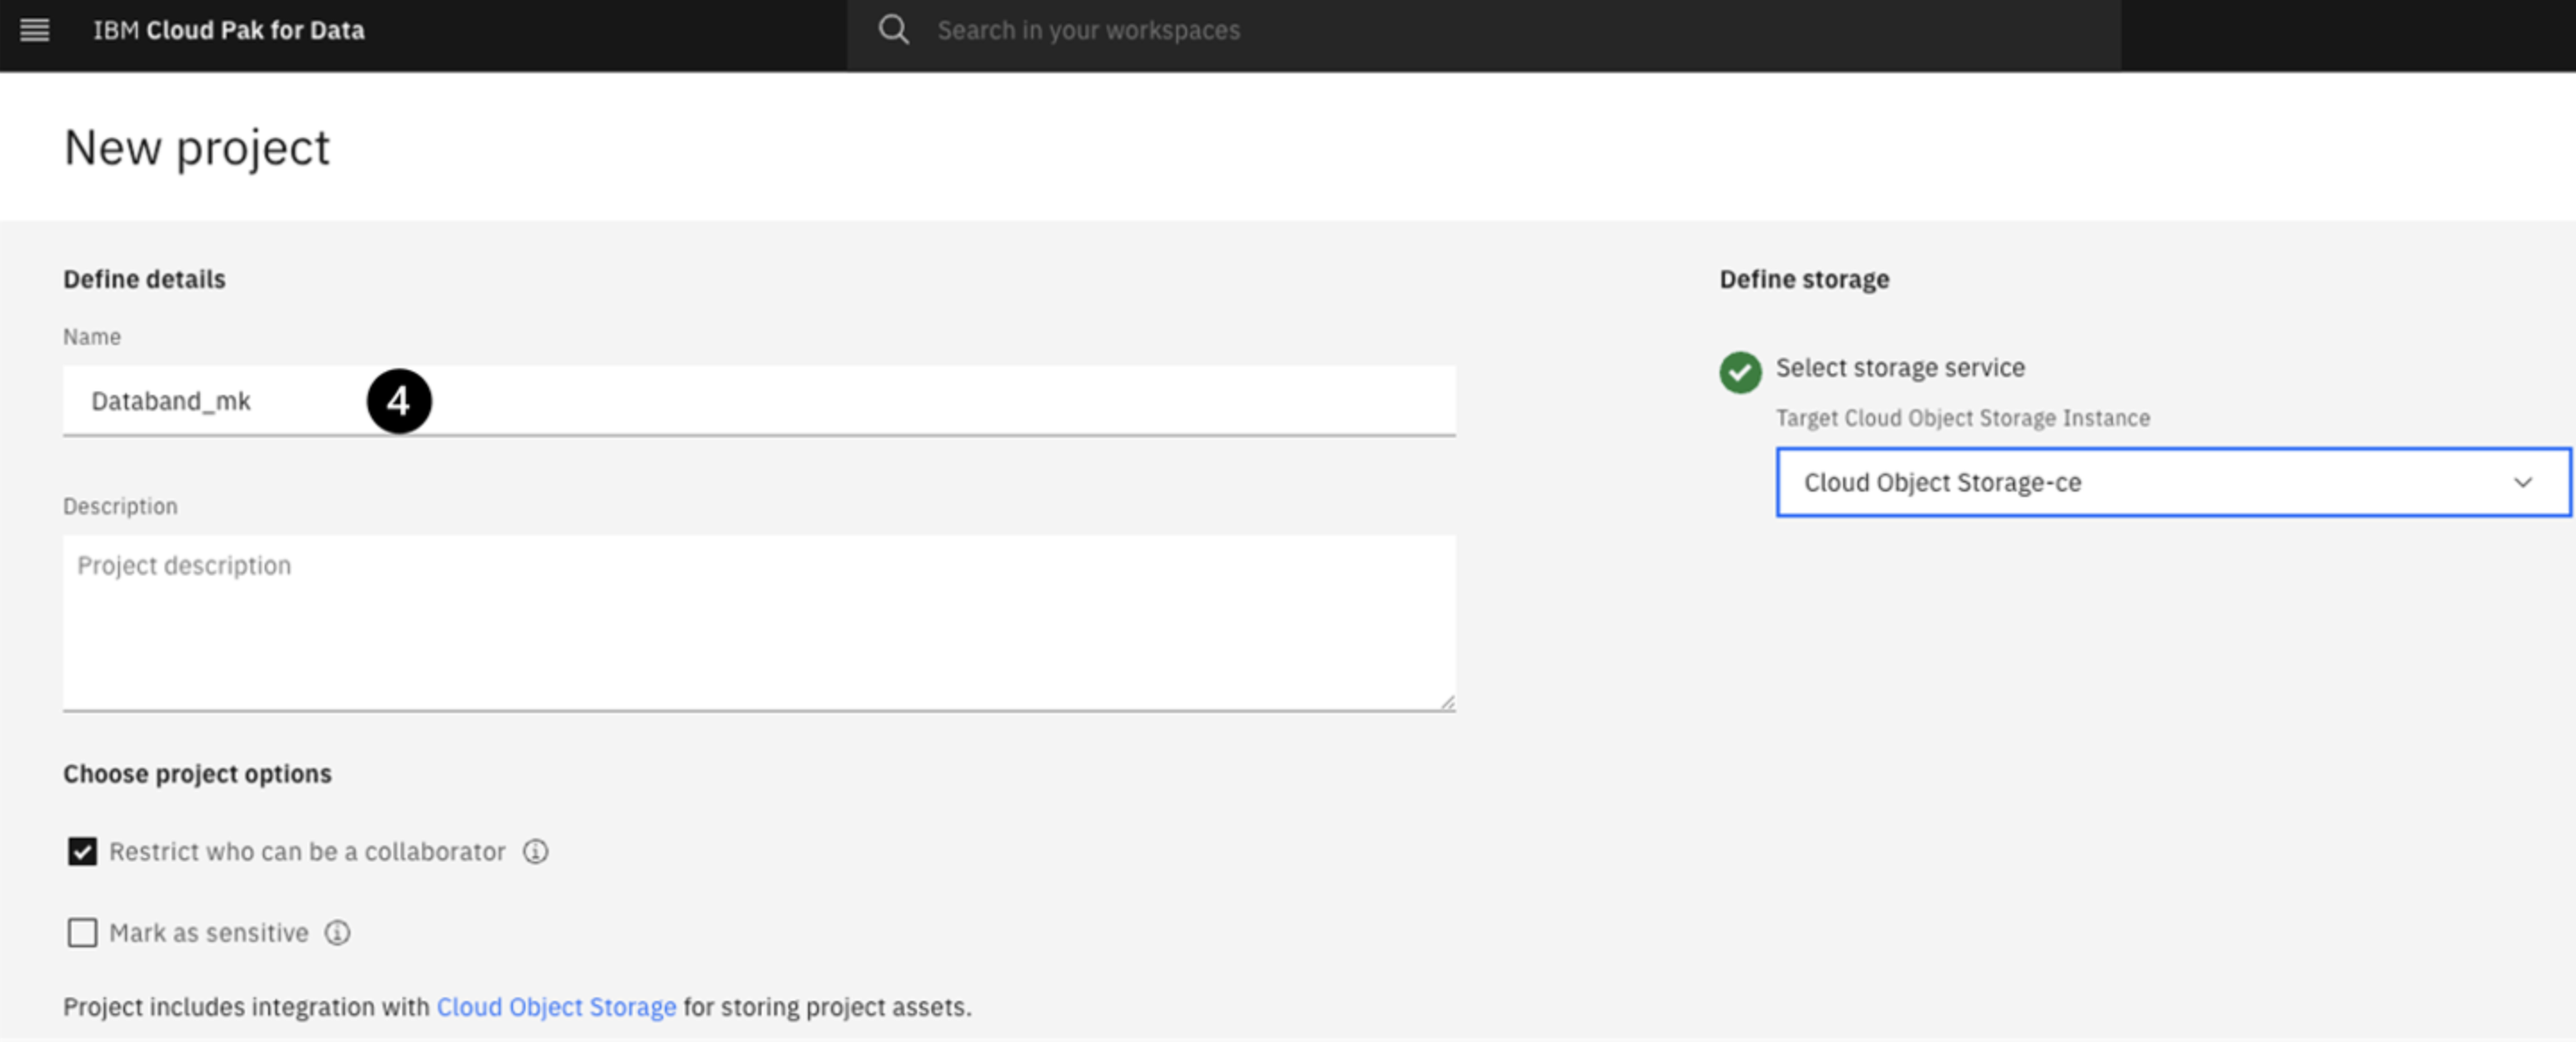
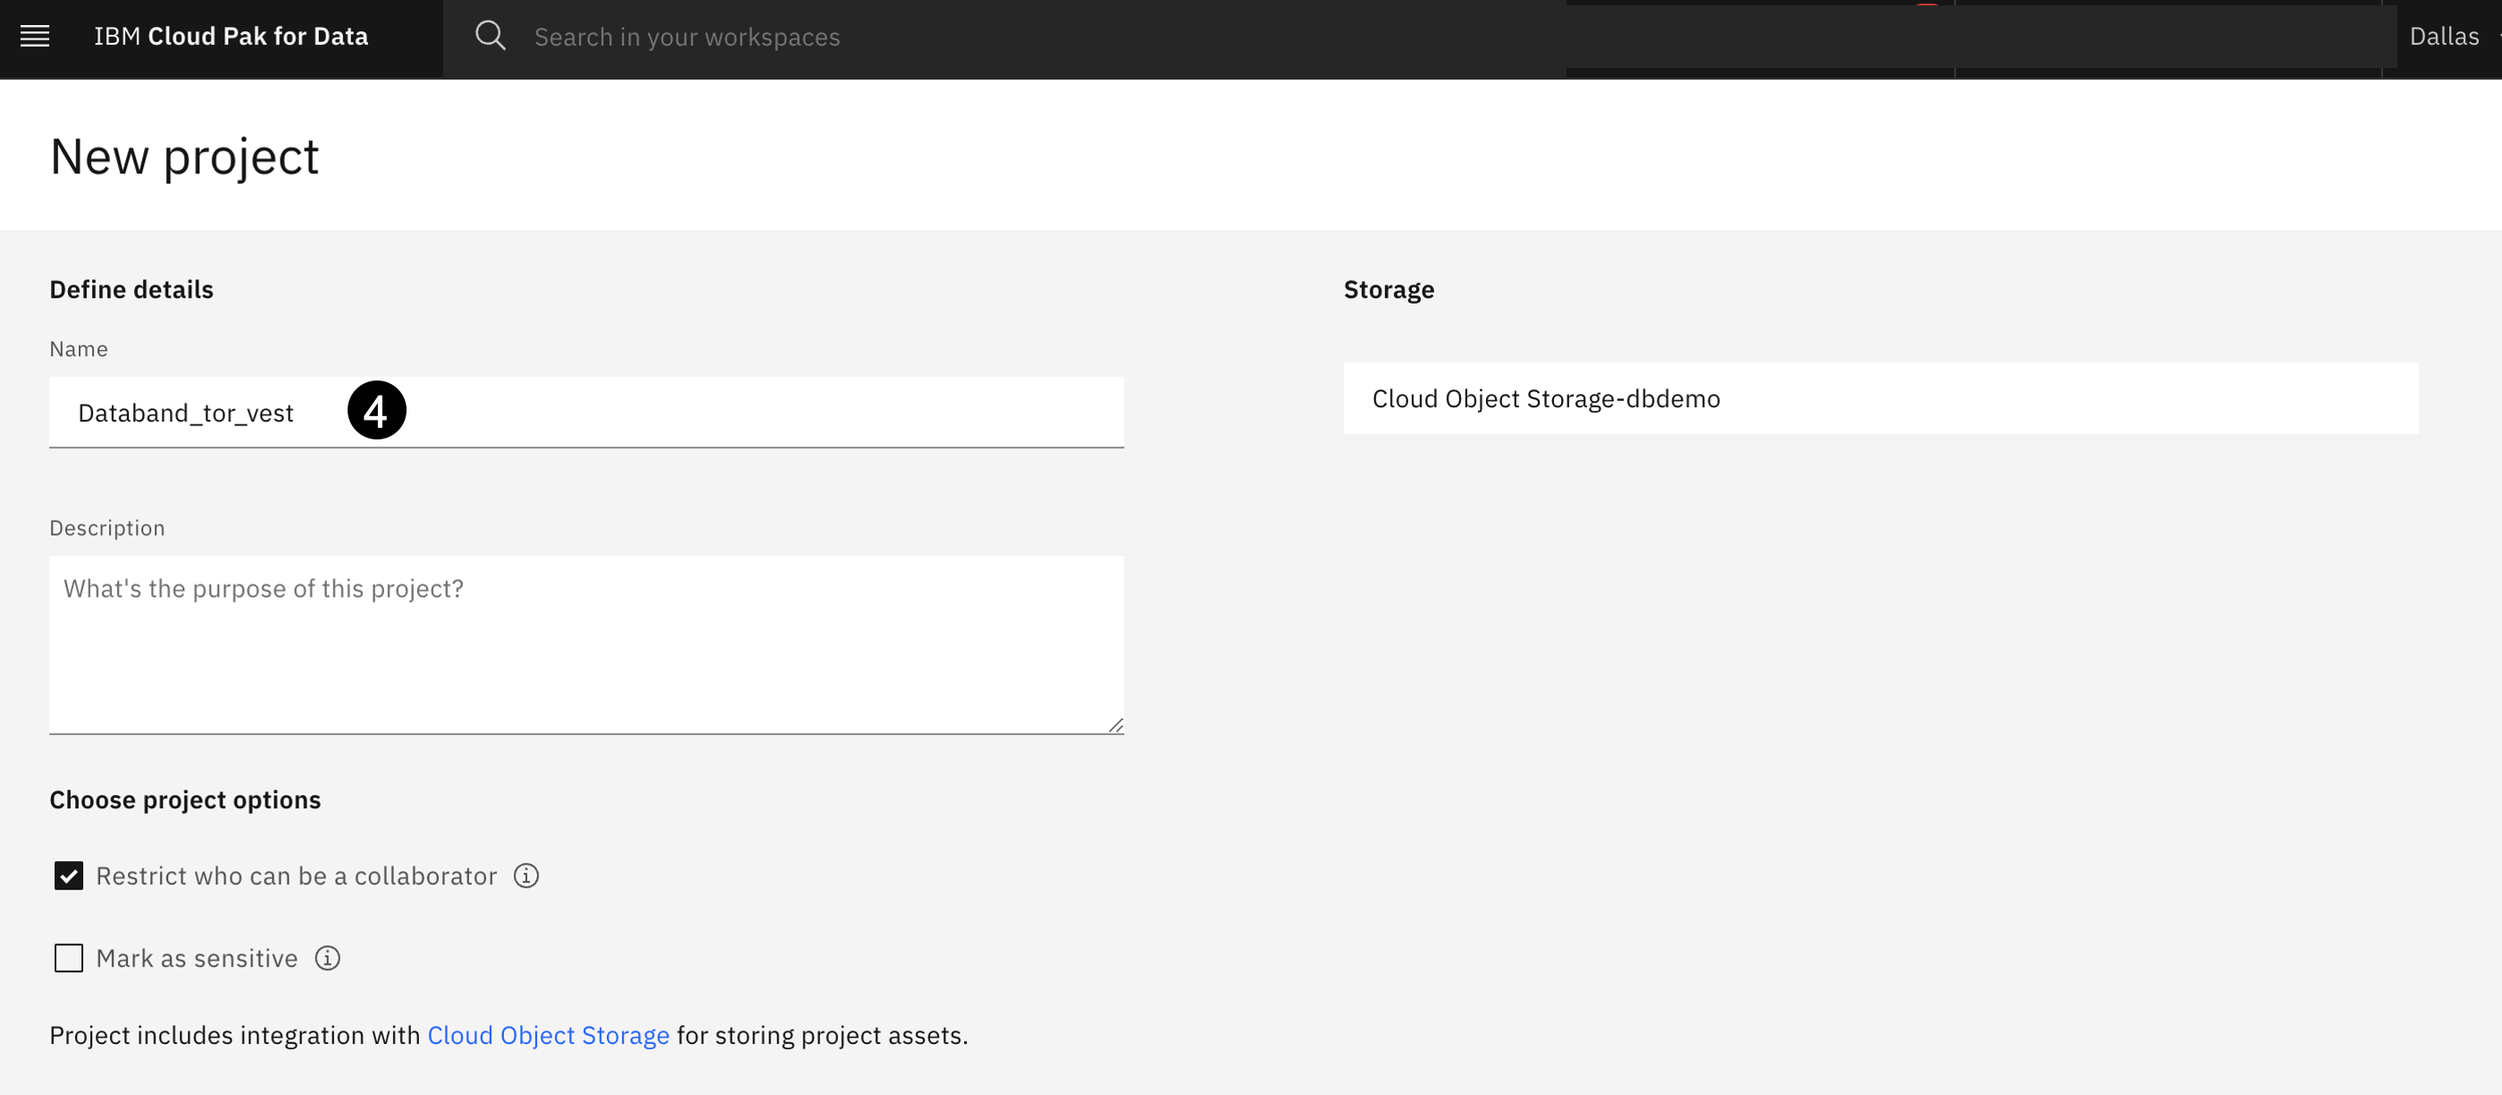
updates from runthrough (#80)

diff --git a/content/Databand/102.md b/content/Databand/102.md
@@ -1,8 +1,7 @@
 ---
-title: '102: Using Databand
-'
-timeToComplete: 30
-updated: 2023-05-12
+title: '102: Using Databand'
+timeToComplete: 35
+updated: 2023-05-15
 ---
 
 # 102:  Observing jobs, Configuring Alerts and External Notifications
@@ -45,13 +44,16 @@ updated: 2023-05-12
 
    **NOTE:** These stages can run in parallel, and thus, the sum total of the time of each individual stage shown is likely much larger than the total time to run the job.
 
+{/* TODO - uncomment when log ingestion is fixed
+
 1. Next, click on the **MORTGAGE_APPLICANTS** stage.
 
-1. Select the **Logs** tab on the top menu. Resize the view like you did earlier to see  more of the log for the selected stage.
+1. Select the **Logs** tab on the top menu. Resize the view like you did earlier to see more of the log for the selected stage.
 
    ![stage logs](./images/102/stage-logs.png)
 
    This view will show us the logs associated with that specific stage. Feel free to click on other stages to view those logs as well.
+*/}
 
    At this point, you have looked through some of the “step-through” functionality that Databand brings to observing our DataStage jobs. Switch back to the browser tab hosting your DataStage environment and run the job **4 more times** to generate more metrics and set some baselines for our Databand environment. This will make sense as we continue our lab and will simulate what a customer environment would look like where a job would run many times.
 
@@ -125,30 +127,25 @@ For the final portion of this lab, you will view the data interactions of your j
 
    ![schema change](./images/102/schema-change.png)
 
-1. First, you have to specify your pipeline and create your alert definition. Click on the **Source** dropdown, type in the unique name you created earlier, and select the source that matches the one for your pipeline.
+1. First, you have to specify your pipeline from the project and create your alert definition. Select the **Project** asset type. Click on the **Project** dropdown, type in the project name you created or part of the name, and select the name of your project with the DataStage Flow
 
-1. Your Multicloud Data Integration pipeline will appear; you can confirm it’s yours with the project name underneath it. Select it by clicking the checkbox on the left.
+   ![source project](./images/102/source-project.png)
 
-   ![source pipeline](./images/102/source-pipeline.png)
-
-1. After selecting your specific job, select **High** as the severity in the **Alert severity** section.
+1. After selecting your project, select **High** as the severity in the **Alert severity** section.
 
 1. Click **Save alert**.
 
    ![save schema alert](./images/102/save-schema-alert.png)
 
-For this alert, you will set the receiver of the alert to be Slack.
+   For this alert, you will set the receiver of the alert to be Slack.
 
-\<!-- TODO - need to create slack workspace for workshop and define receiver. Will need to come up with naming scheme to avoid stepping on later workshops --\>
+1. On the next page, expand the **Recievers** list by clicking on **Show**
 
-1. On the receivers page, click on the **Show** twistee to the right of Select receivers to open the **Select receivers** dropdown.
+1. In the search list type **vest** to filter for the pre-configured workshop Slack receivers. Select the receiver with the name matching the day and month of the workshop
 
-1. Select the **Slack-alerts** that is associated with the TODO - update **#databand-demo-alerts** Slack channel.
-
-1. Click **Done** to save the alert receiver settings.
+1. Click on **Done**.
 
    ![slack receiver](./images/102/slack-receiver.png)
-   **NOTE:** If you have not already joined the slack workspace for the workshop, do this now and join the TODO - update **#databand-demo-alerts** channel
 
 ## Detecting DataStage Schema Changes
 

diff --git a/content/Databand/101.md b/content/Databand/101.md
@@ -1,7 +1,7 @@
 ---
 title: '101: DataStage and Databand setup'
-timeToComplete: 30
-updated: 2023-05-12
+timeToComplete: 25
+updated: 2023-05-15
 ---
 
 # 101: Configuration of DataStage flow and Databand setup
@@ -47,7 +47,7 @@ To begin, perform the following steps:
 
    ![create project](./images/101/create-project.png)
 
-1. Name the project **Databand_\<YOUR_INITIALS\>** like the example shown. Keep the settings as is (you can optionally add a description), and select a object storage instance to use for the project. Then click **Create**.
+1. Name the project **Databand_\<YOUR_INITIALS>_vest** like the example shown. Keep the settings as is (you can optionally add a description), and select a object storage instance to use for the project. Then click **Create**.
 
    ![project settings](./images/101/project-settings.png)
    **Important:** If you did not provision a Cloud Object Storage Instance in the prerequisites, there will be a link in this page to add one that will take you to the catalog page. Create an instance using the `lite` plan and then refresh the project settings page.
@@ -127,7 +127,7 @@ To begin, perform the following steps:
 
    ![cloud integration](./images/101/cloud-integration.png)
 
-1. Create a unique syncer name (for example, \<YOUR_INITIALS\>_datastage syncer) and paste the API key that you saved into the **API key** field. Then click **Next**
+1. Create a unique syncer name (for example, **\<YOUR_INITIALS\>_datastage_syncer**) and paste the API key that you saved into the **API key** field. Then click **Next**
 
    ![datastage syncer](./images/101/datastage-syncer.png)
 

diff --git a/content/Databand/README.md b/content/Databand/README.md
@@ -1,5 +1,5 @@
 ---
-title: Data Observability with Databand
+title: Databand
 toc: false
 ---
 
@@ -11,7 +11,7 @@ This workshop will teach IBMers and Business Partners about the additional monit
 
 ## Prerequisites
 
-- Access to an IBM Cloud account through your IBMid. This lab uses the `lite` (otherwise known as free) plans for Cloud Pak for Data as a Service on IBM cloud and is best accessed with a personal account. If you do not hav an IBM Cloud account, please [register here](https://cloud.ibm.com/registration) and after receiving the confirmation email, follow the steps in the instructions to activate your account.
+- Access to an IBM Cloud account through your IBMid. This lab uses the `lite` (otherwise known as free) plans for Cloud Pak for Data as a Service on IBM cloud and is best accessed with a personal account. If you do not have an IBM Cloud account, please [register here](https://cloud.ibm.com/registration) and after receiving the confirmation email, follow the steps in the instructions to activate your account.
 
 ## Labs
 
